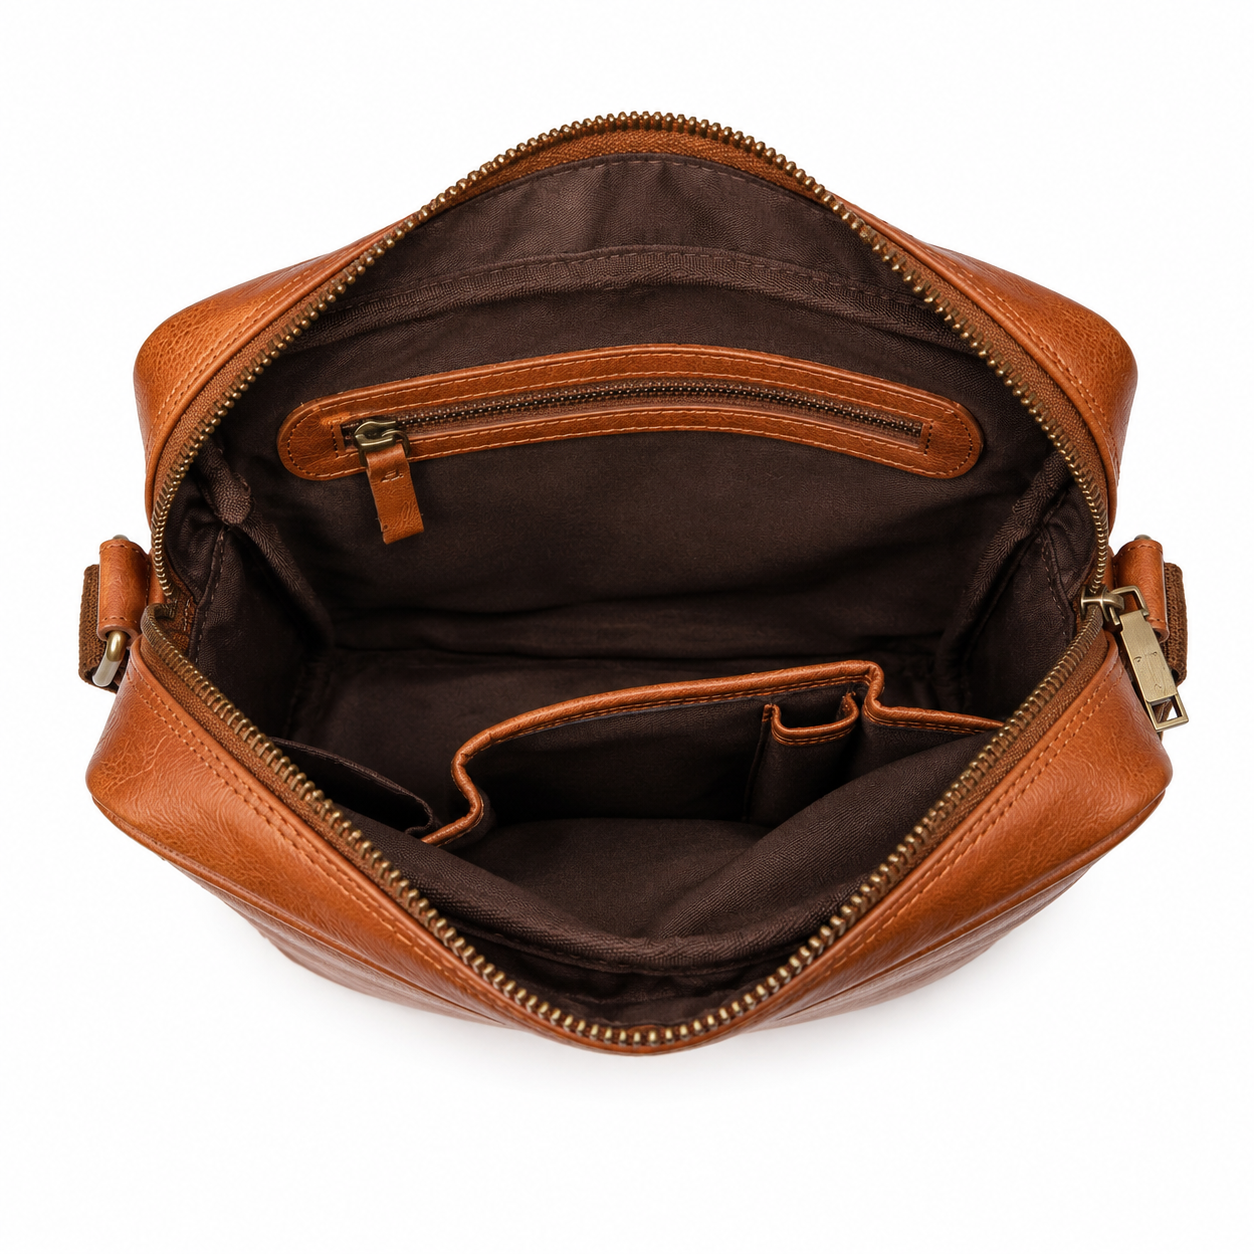
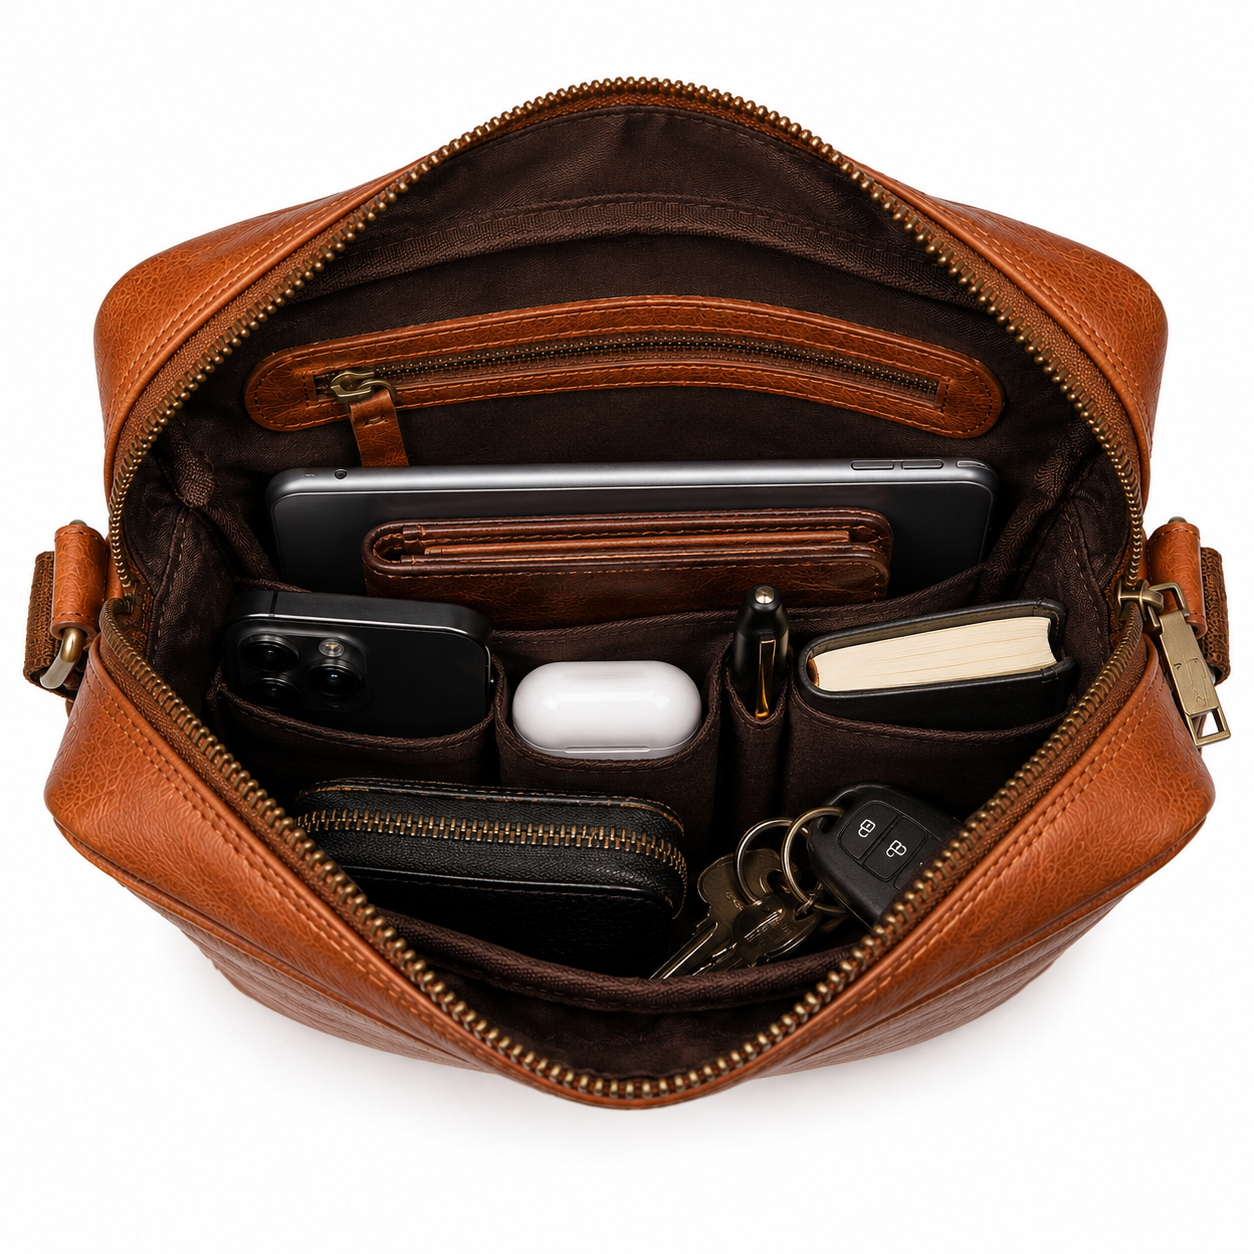
Add bag inside photos, Branded open-box packaging, update contact
- Added real inside photos for all 9 bags. Every bag's hover-flip and
  modal now show a true Inside view; the modal view toggles are
  Front · Inside · Back · Side (per available shots).
- Micro 'Branded Gift Box' packaging card now hover-flips between the
  closed Branded box and the new open-box shot.
- Contact details updated:
  Phone — [phone redacted] / [phone redacted]
  Address — Calcutta Leather Complex, Bantala, South 24 Parganas,
  Kolkata, West Bengal 743502, India

diff --git a/src/App.jsx b/src/App.jsx
@@ -743,18 +743,18 @@ const PRODUCTS = {
   bags: {
     briefcase: [
       { id: 8061, name: 'Tan Leather Laptop Briefcase', sku: 'B-8061', collection: 'Buff VT Leather',      colors: 'Black · Brown · Tan',     frontImage: '/B-8061.png', insideImage: '/B-8061_inside.png', altLabel: 'Inside View', views: [{ src: '/B-8061.png', label: 'Front' }, { src: '/B-8061_inside.png', label: 'Inside' }, { src: '/B-8061_side.png', label: 'Side' }] },
-      { id: 8062, name: 'Black Leather Laptop Bag',     sku: 'B-8062', collection: 'Cow YDM Leather',      colors: 'All colours',             frontImage: '/B-8062.png', insideImage: '/B-8062_back.png',   altLabel: 'Back View',   views: [{ src: '/B-8062.png', label: 'Front' }, { src: '/B-8062_back.png', label: 'Back' }, { src: '/B-8062_side.png', label: 'Side' }] },
-      { id: 8067, name: 'Vintage Brown Briefcase',      sku: 'B-8067', collection: 'Cow Hunter Leather',   colors: 'Any colour',              frontImage: '/B-8067.png', insideImage: '/B-8067_inside.png', altLabel: 'Inside View', views: [{ src: '/B-8067.png', label: 'Front' }, { src: '/B-8067_back.png', label: 'Back' }, { src: '/B-8067_inside.png', label: 'Inside' }] },
-      { id: 8098, name: 'Cognac Polished Briefcase',    sku: 'B-8098', collection: 'Cow VT Leather',       colors: 'Black · Brown · Cognac',  frontImage: '/B-8098.png', insideImage: '/B-8098_inside.png', altLabel: 'Inside View', views: [{ src: '/B-8098.png', label: 'Front' }, { src: '/B-8098_back.png', label: 'Back' }, { src: '/B-8098_inside.png', label: 'Inside' }] },
+      { id: 8062, name: 'Black Leather Laptop Bag',     sku: 'B-8062', collection: 'Cow YDM Leather',      colors: 'All colours',             frontImage: '/B-8062.png', insideImage: '/B-8062_inside.png', altLabel: 'Inside View', views: [{ src: '/B-8062.png', label: 'Front' }, { src: '/B-8062_inside.png', label: 'Inside' }, { src: '/B-8062_back.png', label: 'Back' }, { src: '/B-8062_side.png', label: 'Side' }] },
+      { id: 8067, name: 'Vintage Brown Briefcase',      sku: 'B-8067', collection: 'Cow Hunter Leather',   colors: 'Any colour',              frontImage: '/B-8067.png', insideImage: '/B-8067_inside.png', altLabel: 'Inside View', views: [{ src: '/B-8067.png', label: 'Front' }, { src: '/B-8067_inside.png', label: 'Inside' }, { src: '/B-8067_back.png', label: 'Back' }] },
+      { id: 8098, name: 'Cognac Polished Briefcase',    sku: 'B-8098', collection: 'Cow VT Leather',       colors: 'Black · Brown · Cognac',  frontImage: '/B-8098.png', insideImage: '/B-8098_inside.png', altLabel: 'Inside View', views: [{ src: '/B-8098.png', label: 'Front' }, { src: '/B-8098_inside.png', label: 'Inside' }, { src: '/B-8098_back.png', label: 'Back' }] },
     ],
     crossbody: [
-      { id: 8066, name: 'Tan Crossbody Shoulder Bag',   sku: 'B-8066', collection: 'Cow DD Softy Leather', colors: 'Any colour',              frontImage: '/B-8066.png', insideImage: '/B-8066_inside.png', altLabel: 'Inside View', views: [{ src: '/B-8066.png', label: 'Front' }, { src: '/B-8066_back.png', label: 'Back' }, { src: '/B-8066_inside.png', label: 'Inside' }] },
-      { id: 8068, name: 'Vintage Brown Crossbody',      sku: 'B-8068', collection: 'Cow Hunter Leather',   colors: 'Any colour',              frontImage: '/B-8068.png', insideImage: '/B-8068_back.png',   altLabel: 'Back View',   views: [{ src: '/B-8068.png', label: 'Front' }, { src: '/B-8068_back.png', label: 'Back' }, { src: '/B-8068_side.png', label: 'Side' }] },
-      { id: 9004, name: 'Brown Flap Crossbody',         sku: 'B-9004', collection: 'Cow Plain Crunch Leather', colors: 'All colours',         frontImage: '/B-9004.png', insideImage: '/B-9004_back.png',   altLabel: 'Back View',   views: [{ src: '/B-9004.png', label: 'Front' }, { src: '/B-9004_back.png', label: 'Back' }, { src: '/B-9004_side.png', label: 'Side' }] },
+      { id: 8066, name: 'Tan Crossbody Shoulder Bag',   sku: 'B-8066', collection: 'Cow DD Softy Leather', colors: 'Any colour',              frontImage: '/B-8066.png', insideImage: '/B-8066_inside.png', altLabel: 'Inside View', views: [{ src: '/B-8066.png', label: 'Front' }, { src: '/B-8066_inside.png', label: 'Inside' }, { src: '/B-8066_back.png', label: 'Back' }] },
+      { id: 8068, name: 'Vintage Brown Crossbody',      sku: 'B-8068', collection: 'Cow Hunter Leather',   colors: 'Any colour',              frontImage: '/B-8068.png', insideImage: '/B-8068_inside.png', altLabel: 'Inside View', views: [{ src: '/B-8068.png', label: 'Front' }, { src: '/B-8068_inside.png', label: 'Inside' }, { src: '/B-8068_back.png', label: 'Back' }, { src: '/B-8068_side.png', label: 'Side' }] },
+      { id: 9004, name: 'Brown Flap Crossbody',         sku: 'B-9004', collection: 'Cow Plain Crunch Leather', colors: 'All colours',         frontImage: '/B-9004.png', insideImage: '/B-9004_inside.png', altLabel: 'Inside View', views: [{ src: '/B-9004.png', label: 'Front' }, { src: '/B-9004_inside.png', label: 'Inside' }, { src: '/B-9004_back.png', label: 'Back' }, { src: '/B-9004_side.png', label: 'Side' }] },
     ],
     'sling-waist': [
-      { id: 8008, name: 'Black Leather Waist Bag',      sku: 'B-8008', collection: 'Cow Nappa Leather',    colors: 'Any colour',              frontImage: '/B-8008.png', insideImage: '/B-8008_back.png',   altLabel: 'Back View',   views: [{ src: '/B-8008.png', label: 'Front' }, { src: '/B-8008_back.png', label: 'Back' }, { src: '/B-8008_side.png', label: 'Side' }] },
-      { id: 9002, name: 'Black Leather Chest Sling',    sku: 'B-9002', collection: 'Cow Fine Milled Nappa Leather', colors: 'Any colour',     frontImage: '/B-9002.png', insideImage: '/B-9002_side.png',   altLabel: 'Side View',   views: [{ src: '/B-9002.png', label: 'Front' }, { src: '/B-9002_inside.png', label: 'Inside' }, { src: '/B-9002_side.png', label: 'Side' }] },
+      { id: 8008, name: 'Black Leather Waist Bag',      sku: 'B-8008', collection: 'Cow Nappa Leather',    colors: 'Any colour',              frontImage: '/B-8008.png', insideImage: '/B-8008_inside.png', altLabel: 'Inside View', views: [{ src: '/B-8008.png', label: 'Front' }, { src: '/B-8008_inside.png', label: 'Inside' }, { src: '/B-8008_back.png', label: 'Back' }, { src: '/B-8008_side.png', label: 'Side' }] },
+      { id: 9002, name: 'Black Leather Chest Sling',    sku: 'B-9002', collection: 'Cow Fine Milled Nappa Leather', colors: 'Any colour',     frontImage: '/B-9002.png', insideImage: '/B-9002_inside.png', altLabel: 'Inside View', views: [{ src: '/B-9002.png', label: 'Front' }, { src: '/B-9002_inside.png', label: 'Inside' }, { src: '/B-9002_side.png', label: 'Side' }] },
     ],
   },
   'small-accessories': {
@@ -1383,7 +1383,7 @@ export default function BrandioLeatherWebsite() {
                 { code: 'MN', name: 'Munich — Yacht Box',         desc: 'Yacht-line presentation box for the Munich black collection.', frontImage: '/MN_packaging.png',         insideImage: '/MN_in_box.png' },
                 { code: 'CH', name: 'Chicago — Brandio New York', desc: 'Brandio New York branded box for the Chicago woven range.',   frontImage: '/CH_packaging.png',         insideImage: '/CH_in_box.png' },
                 { code: 'BA', name: 'Bali — Brandio Box',         desc: 'Branded Brandio gift box for the Bali range.',                frontImage: '/Brandio_Packaging.png' },
-                { code: 'MI', name: 'Micro — Branded Gift Box',   desc: 'Premium gift box for the Micro range, RFID protected.',       frontImage: '/Branded_Packaging.png' },
+                { code: 'MI', name: 'Micro — Branded Gift Box',   desc: 'Premium gift box for the Micro range, RFID protected.',       frontImage: '/Branded_Packaging.png', insideImage: '/Branded_in_box.png' },
                 { code: 'CA', name: 'Cancun — Dimbill Box',       desc: 'Dimbill-branded gift box for the Cancun range.',              frontImage: '/Dimbill_Packaging.png' },
               ].map((item, i) => (
                 <PackagingCard key={i} item={item} index={i} />
@@ -1428,7 +1428,7 @@ export default function BrandioLeatherWebsite() {
                   <div className="space-y-4">
                     <div className="flex items-start gap-4">
                       <Phone className="text-amber-900 mt-1 flex-shrink-0" size={24} />
-                      <div><p className="font-semibold text-gray-900">Phone</p><p className="text-gray-600">[phone redacted]</p></div>
+                      <div><p className="font-semibold text-gray-900">Phone</p><p className="text-gray-600">[phone redacted]<br />[phone redacted]</p></div>
                     </div>
                     <div className="flex items-start gap-4">
                       <Mail className="text-amber-900 mt-1 flex-shrink-0" size={24} />
@@ -1436,7 +1436,7 @@ export default function BrandioLeatherWebsite() {
                     </div>
                     <div className="flex items-start gap-4">
                       <MapPin className="text-amber-900 mt-1 flex-shrink-0" size={24} />
-                      <div><p className="font-semibold text-gray-900">Address</p><p className="text-gray-600">Brandio Leather Manufacturing<br />Industrial Zone, City, Country</p></div>
+                      <div><p className="font-semibold text-gray-900">Address</p><p className="text-gray-600">Calcutta Leather Complex, Bantala<br />South 24 Parganas, Kolkata<br />West Bengal 743502, India</p></div>
                     </div>
                   </div>
                 </div>